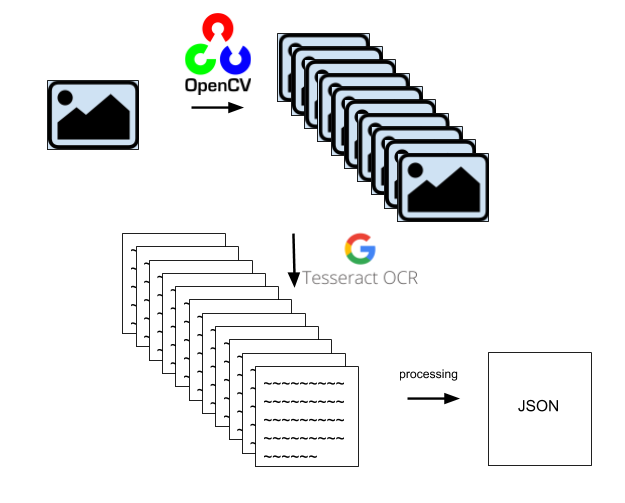
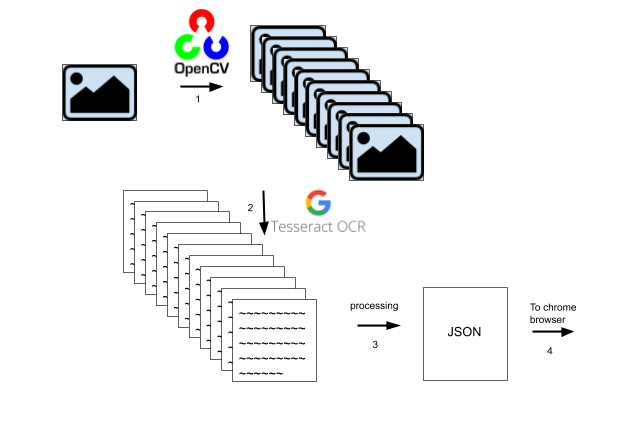
"writing documentation"

diff --git a/Documentation/README.md b/Documentation/README.md
@@ -18,9 +18,6 @@ This project being written with python, it uses several librairies to make it wo
   - jquerry
   - poppers
 
-### File system
-
-![Image of file system](https://github.com/youssef-e/Pytesseract-Opencv/blob/master/Documentation/images/fileSysteme.png)
 
 ### How it works
 
@@ -36,21 +33,27 @@ from ocr import run
 run(image_path, thread_id)
 ```
 it will take as argument *image_path* which is the path to the image to be processed and *thread_id* the id of the thread which will be running the task. the output is an opencv image (or numpy.array) of the grayscale image, and after the ocr is ended, it will write its result in __*results/Detection_Results{thread_id}.json*__
-the ocr process start with image pre-processing : it trims the border, rescales the image and deskew it. after that, the image will be duplicated throught 20 threshold filters, and tesseract will extract text from each one of the duplicated image, resulting in an array of 20 dictionaries that contains the fields of the id card for each image. each field is then averaged thanks to a system of coefficients whose values (per filter) are found in ocr.py
-finally the result is written on a JSON file( __*results/Detection_Results{thread_id}.json*__ )
+the ocr preocess can be described by the steps below:
 
 ![Image of file system](https://github.com/youssef-e/Pytesseract-Opencv/blob/master/Documentation/images/schema1.png)
 
-The methods used for image processing are found in __*Utils/Image_Process_Utils.py*__ and the methods used for extracting the fields from the images and then averaging them are found in __*Utils/Extract_Utils.py*__
-as each field has its own extraction method, and in order to make the code more readable, they are represented as objects in the Utils/Classes directory, with each field inheriting from the Fields class.
+1. The ocr process start with image pre-processing : it trims the border, rescales the image and deskew it. after that, the image will be duplicated throught 20 threshold filters.
+	In this step, Two files are called: __*src/ocr.py*__ which start the process, and __*Utils/Image_Process_Utils.py*__ which contain all the methods for image processing, and __*Utils/Extract_Utils.py*__ for calling the method that applies the filters
 
-__*src/Id_check*__ is then called after the ocr process is finished to check weither or not the content of __*results/Detection_Results{thread_id}.json*__ is syntaxically correct and then if the MRZ is valid, will compare the fields with it.
+2. Tesseract will extract text from each one of the duplicated image, resulting in an array of 20 dictionaries that contains the fields of the id card for each image. 
+	In this step, the files called are: __*Utils/Extract_Utils.py*__ that will call Tesseract, on each image, and call the extraction methods located in __*Utils/Classes/`*`*__.
+	as each field has its own extraction method, and in order to make the code more readable, they are represented as objects in the Utils/Classes directory, with each field inheriting from the Fields class.
+
+3. Each field is then averaged thanks to a system of coefficients whose values (per filter) are found in __*src/ocr.py*__. The averaging is also made in __*Utils/Extract_Utils.py*__, using the methods in __*Utils/Classes/`*`*__ objects and the result is retrieved by __*src/ocr.py*__ and  written in a JSON file( __*results/Detection_Results{thread_id}.json*__ )
+
+
+4. __*src/Id_check*__ is then called after the ocr process is finished to check weither or not the content of __*results/Detection_Results{thread_id}.json*__ is syntaxically correct and then if the MRZ is valid, will compare the fields with it.
 the method called is check(), and only take as argument the thread_id, and will write its results in __*results/Id_check_Results{thread_id}.json*__
 ```python
 from Id_check import check
 
 check(thread_id)
 ```
-it will the look for __*results/Detection_Results{thread_id}.json*__, read its data, and then check if the fields are syntaxically correct. if so, it will reconstitute The MRZ using the field and then compare it to the actual MRZ. it will also compare each field with its equivalent in the MRZ to try to correct minor error. Lastly it will write the results of each comparison in __*results/Id_check_Results{thread_id}.json*__
-
+it will then look for __*results/Detection_Results{thread_id}.json*__, read its data, and then check if the fields are syntaxically correct. if so, it will reconstitute The MRZ using the field and then compare it to the actual MRZ. it will also compare each field with its equivalent in the MRZ to try to correct minor error. Lastly it will write the results of each comparison in __*results/Id_check_Results{thread_id}.json*__ which can the be used along with __*results/Detection_Results{thread_id}.json*__ for the website in by __*app.py*__.
+	
 #### Web server process
